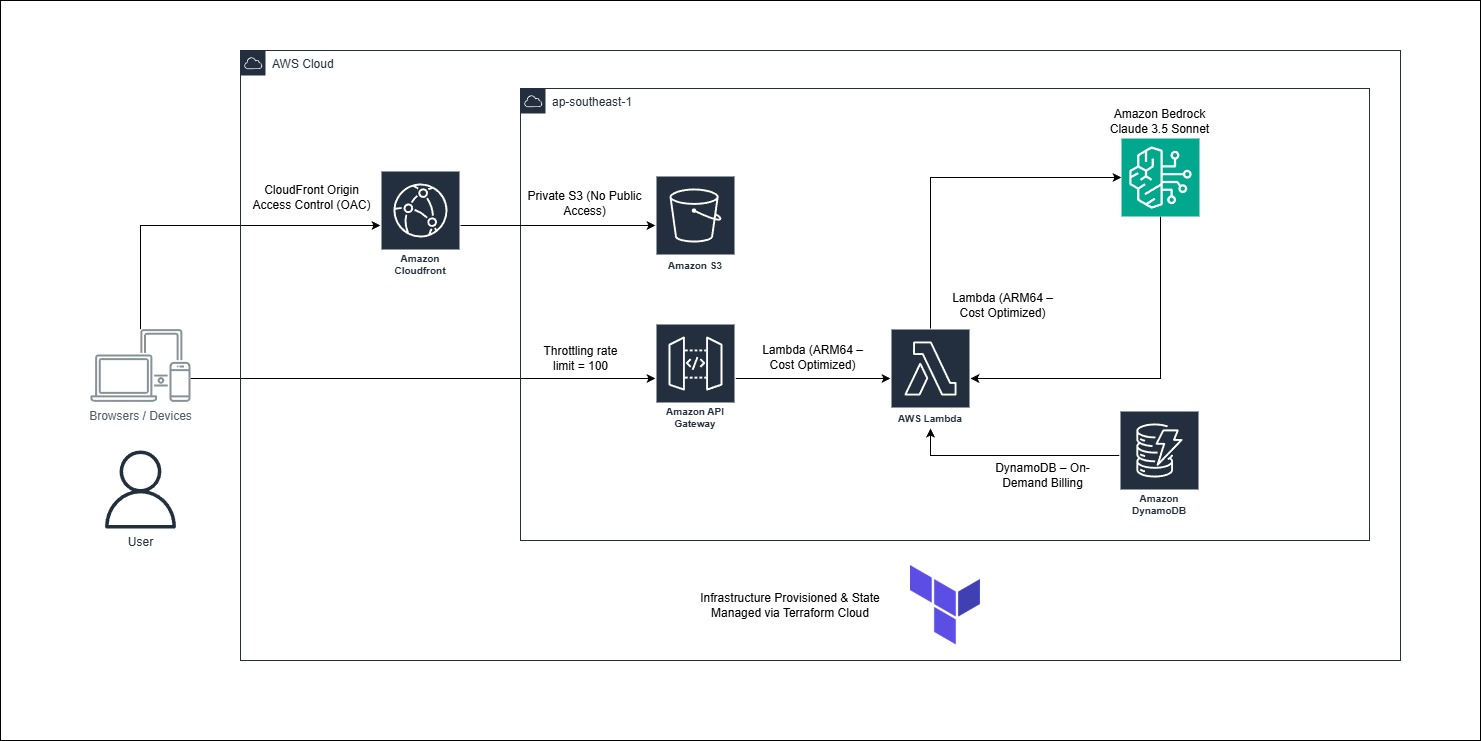
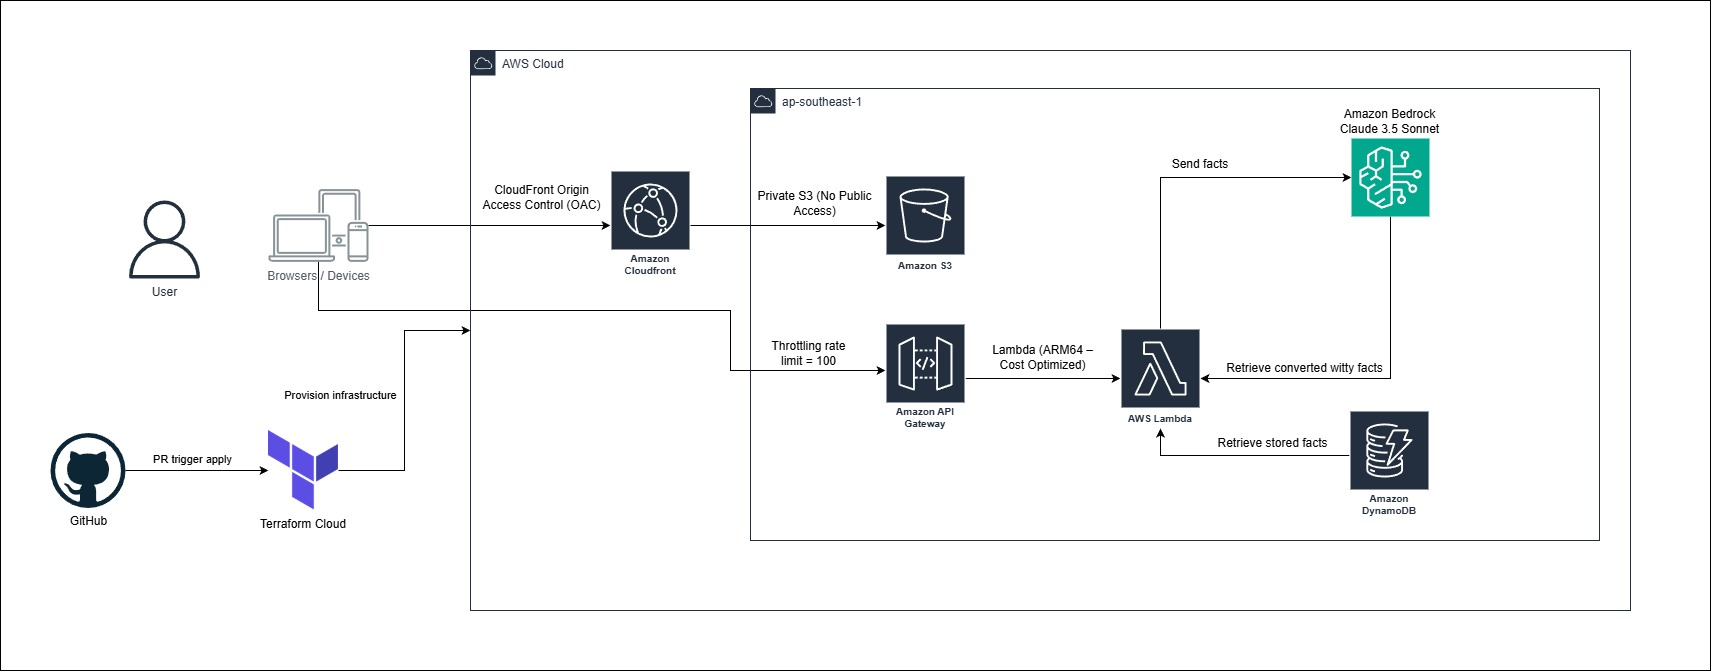
update readme and architecture diagram

diff --git a/README.template.md b/README.template.md
@@ -1,31 +1,36 @@
 <a id="readme-top"></a>
 
+<div align="center">
+
 [![Contributors][contributors-shield]][contributors-url]
 [![Forks][forks-shield]][forks-url]
 [![Stargazers][stars-shield]][stars-url]
 [![Issues][issues-shield]][issues-url]
 [![Unlicense License][license-shield]][license-url]
 [![LinkedIn][linkedin-shield]][linkedin-url]
-<br>
+
+  <h1>☁ Cloud Fun Facts Generator</h1>
+  <img src="assets/Cloud Fun Facts Webpage.png" alt="Webpage Output" />
+  <p>An AI-powered serverless application built with Terraform, AWS Lambda, and Amazon Bedrock.</p>
+
+![AWS](https://img.shields.io/badge/AWS-%23FF9900.svg?style=for-the-badge&logo=amazon-aws&logoColor=white)
+![Terraform](https://img.shields.io/badge/terraform-%235835CC.svg?style=for-the-badge&logo=terraform&logoColor=white)
+![Python](https://img.shields.io/badge/python-3670A0?style=for-the-badge&logo=python&logoColor=ffdd54)
 
 ![GitHub Actions](https://img.shields.io/badge/GitHub_Actions-2088FF?style=for-the-badge&logo=github-actions&logoColor=white)<br>
 [![Infrastructure CI][ci-shield]][ci-url]
 [![Production Deployment][cd-shield]][cd-url]
 [![Update Documentation][docs-shield]][docs-url]
 
-<div>
-  <p>
-    <strong>Notice:</strong> This project has been migrated from a monolithic collection at <a href="https://github.com/ShenLoong99/my-terraform-aws-projects-2025">my-terraform-aws-projects-2025</a> to this dedicated repository for better project isolation and CI/CD management.<br>
-    To review the full development lifecycle, including initial architectural decisions and incremental code changes, please refer to the original commit history in the source repository.
-  </p>
+<br>
 
-  <h1>☁ Cloud Fun Facts Generator</h1>
-    <img src="assets/Cloud Fun Facts Webpage.png" alt="Webpage Output" width="800">
-  <p>
-    An AI-powered serverless application built with Terraform, AWS Lambda, and Amazon Bedrock.
-    <br />
-    <a href="#about-the-project"><strong>Explore the docs »</strong></a>
-  </p>
+![Last Commit](https://img.shields.io/github/last-commit/{{GITHUB_USER}}/{{REPO_NAME}}?style=for-the-badge)
+![Repo Size](https://img.shields.io/github/repo-size/{{GITHUB_USER}}/{{REPO_NAME}}?style=for-the-badge)
+![pre-commit](https://img.shields.io/badge/pre--commit-enabled-brightgreen?style=for-the-badge&logo=pre-commit&logoColor=white)
+[![Checkov Security](https://img.shields.io/badge/Checkov-Secured-brightgreen?style=for-the-badge&logo=checkov&logoColor=white)](https://github.com/{{GITHUB_USER}}/{{REPO_NAME}}/actions/workflows/ci.yml)
+
+<a href="#about-the-project"><strong>Explore the docs »</strong></a>
+
 </div>
 
 <details>
@@ -36,11 +41,14 @@
     <li><a href="#use-cases">Use Cases</a></li>
     <li><a href="#architecture">Architecture</a></li>
     <li><a href="#file-structure">File Structure</a></li>
+    <li><a href="#technical">Technical Reference</a></li>
     <li><a href="#getting-started">Getting Started</a></li>
+    <li><a href="#gitops">GitOps & CI/CD Workflow</a></li>
     <li><a href="#usage">Usage</a></li>
     <li><a href="#roadmap">Roadmap</a></li>
     <li><a href="#challenges-faced">Challenges</a></li>
     <li><a href="#cost-optimization">Cost Optimization</a></li>
+    <li><a href="#acknowledgements">Acknowledgements</a></li>
   </ol>
 </details>
 
@@ -90,7 +98,7 @@
 
 <h2 id="architecture">Architecture</h2>
 <p align="center">
-  <img src="assets/AWS Cloud Fun Facts Generator.jpg" alt="Architecture Diagram" width="800">
+  <img src="assets/AWS Cloud Fun Facts Generator.jpg" alt="Architecture Diagram" />
 </p>
 <p>
   The application follows a modern serverless flow:
@@ -99,38 +107,48 @@
   <br>
   <code>User Browser</code> ➔ <code>API Gateway</code> ➔ <code>Lambda</code> ➔ <code>DynamoDB (Fetch)</code> ➔ <code>Bedrock AI (Transform)</code>
 </p>
-<h3 id="devops-gitops">🚀 DevOps & GitOps Workflow</h3>
-<p> This project utilizes a <strong>Zero-Secret</strong> security model. By leveraging GitHub Actions with <strong>OIDC (OpenID Connect)</strong>, the pipeline authenticates with AWS using short-lived tokens, eliminating the need for permanent <code>AWS_ACCESS_KEY_ID</code> stored in GitHub secrets. </p>
-<ul>
-   <li><strong>Infrastructure as Code (IaC):</strong> Managed by <strong>Terraform Cloud</strong> via a VCS-driven workflow. Every Pull Request triggers a <code>speculative plan</code> with cost estimates.</li>
-   <li><strong>Continuous Deployment (CD):</strong> A manual <code>workflow_dispatch</code> pipeline in GitHub Actions handles frontend asset delivery and CloudFront cache invalidation only after infrastructure is verified.</li>
-   <li><strong>Automated Resource Discovery:</strong> The pipeline uses <strong>AWS Resource Tagging</strong> to dynamically locate the correct S3 buckets and CloudFront IDs, making the scripts 100% project-agnostic.</li>
-   <li><strong>Dynamic Injection:</strong> Since GitHub Actions handles the frontend sync, a <code>sed</code>-based injection process dynamically patches the <code>index.html</code> with the latest API Gateway endpoint during the build phase.</li>
-</ul>
 <div align="right"><a href="#readme-top">↑ Back to Top</a></div>
 
 <h2 id="file-structure">File Structure</h2>
 <pre>.
 ├── .github/
-│   └── workflows/           # CI/CD Pipeline Definitions
-│       ├── cd.yml           # Production Deployment (OIDC + S3 Sync)
-│       ├── ci.yml           # Terraform PR Insights & Planning
-│       └── update-readme.yml # Automated Documentation Sync
-├── assets/                  # Documentation images and UI design icons
-├── frontend/                # Static website files
-│   └── index.html           # Main user interface (Dynamically patched by CD)
-├── lambda/                  # Serverless backend logic
-│   ├── lambda_function.py   # Python source code for Fact Generation & AI
-│   └── lambda_function.zip  # Deployment artifact generated for AWS
-├── scripts/                 # Automation & Validation Scripts
-│   ├── health-check.sh      # Post-deployment API verification
-│   └── pre-commit-check.sh  # Local validation before pushing code
-├── main.tf                  # Core Terraform logic (Lambda, DynamoDB, API Gateway)
-├── outputs.tf               # CloudFront and API Gateway URLs for the user
-├── terraform.tf             # Terraform Cloud backend configuration
-├── variable.tf              # Configurable project inputs (AWS Region, Tags)
-└── README.md                # Project documentation (Generated from template)
+│   └── workflows/            # CI/CD Pipeline Definitions
+│       ├── cd.yml            # Production Deployment (OIDC + S3 Sync)
+│       ├── ci.yml            # Terraform PR Insights (Checkov, TFLint, Plan)
+│       └── update-readme.yml # Automated Documentation Sync via terraform-docs
+├── assets/                   # Documentation images and UI design icons
+├── frontend/                 # Static website files
+│   └── index.html            # Main UI (Dynamically patched with API URL by CD)
+├── lambda/                   # Serverless backend logic
+│   └── lambda_function.py    # Python source code for Fact Generation
+├── scripts/                  # Automation & Validation Scripts
+│   ├── health-check.sh       # Post-deployment API verification
+│   └── smoke-test-website.sh # Frontend availability verification
+├── api_gateway.tf            # AWS API Gateway (HTTP API) configurations
+├── cloudfront.tf             # CDN configuration with OAC for S3 security
+├── database.tf               # DynamoDB table and seed data locals
+├── iam.tf                    # Least-privilege IAM Roles and Policies
+├── lambda.tf                 # Lambda function and Archive provider setup
+├── main.tf                   # Provider & Random ID configurations
+├── outputs.tf                # CloudFront and API Gateway URLs for the user
+├── storage.tf                # S3 Bucket and Lifecycle policy definitions
+├── providers.tf              # Terraform Cloud backend & version constraints
+├── variables.tf              # Configurable project inputs (AWS Region, Tags)
+├── .pre-commit-config.yaml   # Local git-hook orchestration
+├── .tflint.hcl               # TFLint AWS ruleset configuration
+└── README.md                 # Project documentation (Auto-injected by terraform-docs)
 </pre>
+<div align="right"><a href="#readme-top">↑ Back to Top</a></div>
+
+<h2 id="technical">Technical Reference</h2>
+This section is automatically updated with the latest infrastructure details.
+<details>
+<summary><b>Detailed Infrastructure Specifications</b></summary>
+
+<!-- BEGIN_TF_DOCS -->
+{{ .Content }}
+<!-- END_TF_DOCS -->
+</details>
 <div align="right"><a href="#readme-top">↑ Back to Top</a></div>
 
 <h2 id="getting-started">Getting Started</h2>
@@ -142,20 +160,14 @@
   <li><strong>Set your AWS Region:</strong> Set to whatever <code>aws_region</code> you want in <code>variables.tf</code>.</li>
 </ul>
 <p>
-  <img src="assets/Terraform Cloud.png" alt="Terraform Cloud" width="800"/>
+  <img src="assets/Terraform Cloud.png" alt="Terraform Cloud" />
 </p>
 
-<h3>Terraform State Management</h3>
-<p>Select one:</p>
+<h3>Terraform Cloud State Management</h3>
 <ol>
-   <li>Terraform Cloud</li>
-   <li>Terraform Local CLI</li>
-</ol>
-
-<h4>Terraform Cloud Configuration</h4>
-<p>If you choose Terraform Cloud, please follow the steps below:</p>
-<ol>
-   <li>Create a new <strong>Workspace</strong> in Terraform Cloud.</li>
+   <li>Create a new <strong>Workspace</strong> with github version control workflow in Terraform Cloud.</li>
+   <li>In the Variables tab, add the following <strong>Terraform Variables:</strong>
+   </li>
    <li>
     Add the following <strong>Environment Variables</strong> (AWS Credentials):
     <ul>
@@ -163,52 +175,110 @@
       <li><code>AWS_SECRET_ACCESS_KEY</code></li>
    </ul>
    </li>
-</ol>
-
-<h4>Terraform Local CLI Configuration</h4>
-<p>If you choose Terraform Local CLI, please follow the steps below:</p>
-<ol>
-   <li>
-      Comment the <code>backend</code> block in <code>terraform.tf</code>:
-      <pre># backend "remote" {
-#   hostname     = "app.terraform.io"
-#   organization = "my-terraform-aws-projects-2025"
-#   workspaces {
-#     name = "AWS-Cloud-Fun-Facts-Generator"
-#   }
-# }</pre>
+    <li>
+      Run the command ni Terraform CLI:
+      <pre>terraform login</pre>
+    </li>
+    <li>Create a token and follow the steps in browser to complete the Terraform Cloud Connection.</li>
+    <li>
+      Add the <code>backend</code> block in <code>terraform</code> code block</code>:
+    <pre>backend "remote" {
+  hostname     = "app.terraform.io"
+  organization = &lt;your-organization-name&gt;
+  workspaces {
+    name = &lt;your-workspace-name&gt;
+  }
+}</pre>
    </li>
-   <li>
-    Add the following <strong>Environment Variables</strong> (AWS Credentials):
-    <pre>git bash command:
-export AWS_ACCESS_KEY_ID=&lt;your-aws-access-key-id&gt;
-export AWS_SECRET_ACCESS_KEY=&lt;your-aws-secret-access-key&gt;</li>
+    <li>
+      Run the command in Terraform CLI to migrate the state into Terraform Cloud:
+      <pre>terraform init -migrate-state</pre>
+    </li>
 </ol>
 
-<h3>Installation</h3>
+<h3>Installation & Deployment</h3>
 <ol>
-  <li>Clone the repo</li>
-  <li><strong>Terraform Cloud</strong> → <strong>Initialize & Apply:</strong> Push your code to GitHub. Terraform Cloud will automatically detect the change, run a <code>plan</code>, and wait for your approval.</li>
-   <li><strong>Terraform CLI</strong> → <strong>Initialize & Apply:</strong> Run <code>terraform init</code> → <code>terraform plan</code> → <code>terraform apply</code>, and wait for your approval.</li>
+    <li>
+        <strong>Clone the Repository:</strong>
+        <pre>git clone https://github.com/{{GITHUB_USER}}/{{REPO_NAME}}.git</pre>
+    </li>
+    <li>
+        <strong>Provision Infrastructure:</strong><br>
+        <strong>Terraform Cloud</strong> → <strong>Initialize & Apply:</strong> Push your code to GitHub. Terraform Cloud will automatically detect the change, run a <code>plan</code>, and wait for your approval.
+    </li>
+    <li>
+        <strong>Observe workflow:</strong><br>
+        <strong>GitHub (GitOps)</strong> → <strong>Github actions:</strong> Observe the process/workflow of CI/CD in the actions tab in GitHub.
+    </li>
 </ol>
 <div align="right"><a href="#readme-top">↑ Back to Top</a></div>
 
-<h2 id="usage">Usage & Testing</h2>
-<p>Once deployment is complete, Terraform provides two key outputs:</p>
-<p>
-  <img src="assets/Terraform Output.png" alt="Terraform Output" width="800">
-</p>
-<ul>
-  <li><strong>Web Interface:</strong> Access the live site at the <code>cloudfront_url</code> (e.g., <code>https://d11a5c37xehwja.cloudfront.net</code>).</li>
-  <li><strong>REST API:</strong> Test the raw backend directly at the <code>api_invoke_url</code>: (e.g., <code>curl https://g1kcof6nl1.execute-api.ap-southeast-1.amazonaws.com/funfact</code>)
+<h2 id="gitops">GitOps & CI/CD Workflow</h2>
+<p>This project uses a fully automated GitOps pipeline to ensure code quality and deployment reliability. The <strong>Pre-commit</strong> framework implements a "Shift-Left" strategy, ensuring that code is formatted, documented, and secure before it ever leaves your machine.</p>
+
+<h3>Workflow Files</h3>
+<ol>
+  <li>
+    <strong>Pre-commit</strong>
+    <ul>
+      <li><strong>Tool:</strong> Executes <code>terraform fmt</code>, <code>terraform validate</code>, <code>TFLint</code>, <code>terraform_docs</code> and <code>checkov</code> to ensure the code is clean.</li>
+      <li><strong>Trigger:</strong> Runs on every <strong>git commit</strong>.</li>
+      <li>
+        <strong>Outcome:</strong> If any check fails, the commit is blocked. You fix the error, re-add the file, and commit again.
+      </li>
+    </ul>
   </li>
+  <li>
+    <strong>Continuous Integration (PR)</strong>
+    <ul>
+      <li><strong>Tool:</strong> Executes <code>terraform fmt -check</code>, <code>terraform validate</code> and <code>checkov</code>, then do <code>plan</code> and cost estimation and print it on PR.</li>
+      <li><strong>Trigger:</strong> Runs on every <strong>Pull Request</strong>.</li>
+      <li>
+        <strong>Outcome:</strong> This acts as the "Gatekeeper" before code is merged to <code>main</code>.
+      </li>
+    </ul>
+  </li>
+  <li>
+    <strong>Continuous Delivery (Deployment)</strong>
+    <ul>
+      <li><strong>Tool:</strong> Terraform Cloud + GitHub Actions OIDC.</li>
+      <li><strong>Trigger:</strong> Merges to the <code>main</code> branch.</li>
+      <li>
+        <strong>Outcome:</strong> The pipeline verifies the infrastructure state and runs a post-deployment health check with(<code>health-check.sh</code> & <code>smoke-test-website.sh</code>).
+      </li>
+    </ul>
+  </li>
+  <li>
+    <strong>Dynamically update readme documentation</strong>
+    <ul>
+      <li><strong>Tool:</strong> Terraform Cloud + GitHub Actions.</li>
+      <li><strong>Trigger:</strong> Merges to the <code>main</code> branch.</li>
+      <li>
+        <strong>Outcome:</strong> The pipeline verifies the infrastructure state from Terraform Cloud, retrieve outputs from Terraform Cloud and update the readme documentation file dynamically.
+      </li>
+    </ul>
+  </li>
+</ol>
+
+<h3>Prerequisites for GitOps</h3>
+<ul>
+  <li><strong>Repository Secret <code>TF_API_TOKEN</code>:</strong> Required for GitHub to communicate with Terraform Cloud.</li>
+  <li><strong>Trigger:</strong> A GitHub Actions OIDC role (<code>GitHubActionRole</code>) allows the runner to verify AWS resources without long-lived keys.</li>
 </ul>
 
-<h3 id="quality-gates">🛡 Quality Gates & Automation</h3>
+<h2 id="usage">Usage & Testing</h2>
+<p>Once deployment is complete, Terraform provides a few key outputs. Please take note of these 2:</p>
+<p>
+  <img src="assets/Terraform Output.png" alt="Terraform Output" />
+</p>
 <ul>
-   <li><strong>PR Insights:</strong> Automated Terraform Plan comments are posted directly to Pull Requests, providing visibility into infrastructure changes before merge.</li>
-   <li><strong>Deployment Health Checks:</strong> A post-deployment bash script automatically tests the <code>/funfact</code> API endpoint to ensure the system is healthy before finalizing the run.</li>
-   <li><strong>Cost Governance:</strong> Terraform Cloud provides real-time cost estimates for every infrastructure change to prevent unexpected cloud bills.</li>
+  <li>
+    <strong>Web Interface:</strong> Access the live site at the <code>cloudfront_url</code>.<br>
+    <img src="assets/Cloud Fun Facts Webpage with result.png" alt="Cloud Fun Facts Webpage with result" />
+  </li>
+  <li>
+    <strong>REST API:</strong> The raw backend directly at the <code>api_invoke_url</code>.
+  </li>
 </ul>
 <div align="right"><a href="#readme-top">↑ Back to Top</a></div>
 
@@ -277,6 +347,20 @@ export AWS_SECRET_ACCESS_KEY=&lt;your-aws-secret-access-key&gt;</li>
   <li><strong>Storage:</strong> S3 lifecycle rules to automatically clean up old files after 30 days.</li>
   <li><strong>Logging:</strong> 7-day retention on CloudWatch logs to prevent storage costs.</li>
   <li><strong>Throttling:</strong> API limits (100 req/s) to prevent unexpected usage spikes.</li>
+</ul>
+<div align="right"><a href="#readme-top">↑ Back to Top</a></div>
+
+<h2 id="acknowledgements">Acknowledgements</h2>
+<p>
+  Special thanks to <strong>Tech with Lucy</strong> for the architectural inspiration and excellent AWS tutorials that helped shape this pipeline.
+</p>
+<ul>
+  <li>
+    See her youtube channel here: <a href="https://www.youtube.com/@TechwithLucy" target="_blank">Tech With Lucy</a>
+  </li>
+  <li>
+    Watch her video here: <a href="https://www.youtube.com/watch?v=hiE0El3zs1Y" target="_blank">5 Beginner AWS Cloud Projects To Get You Hired (2025)</a>
+  </li>
 </ul>
 <div align="right"><a href="#readme-top">↑ Back to Top</a></div>
 
